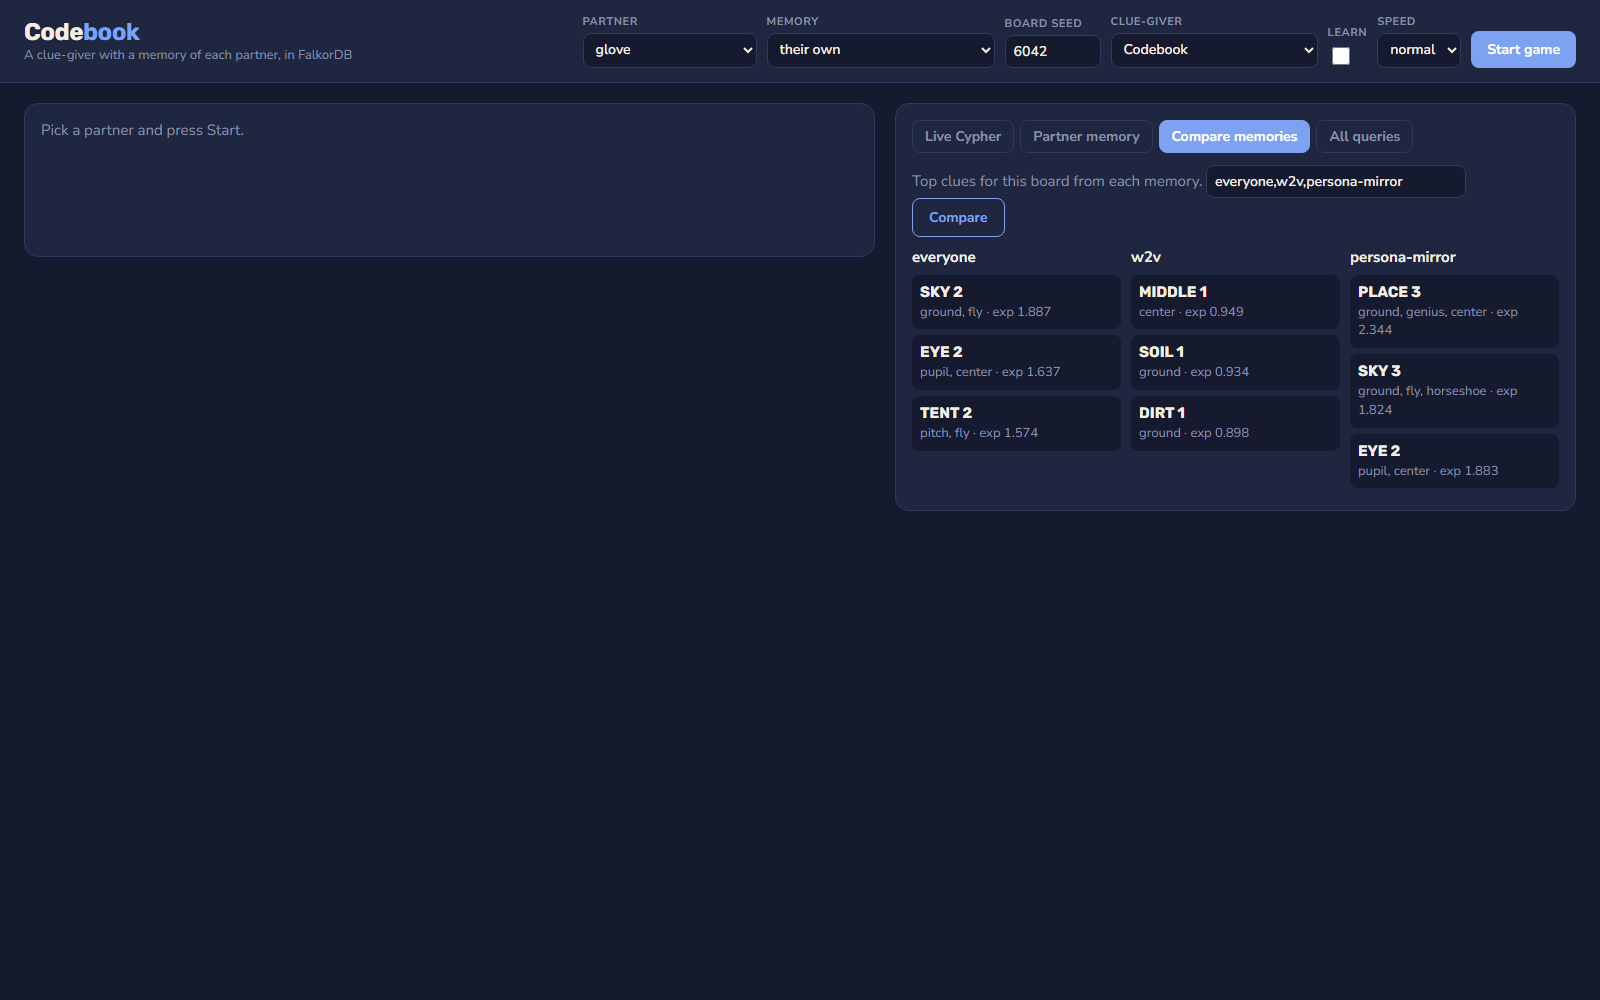
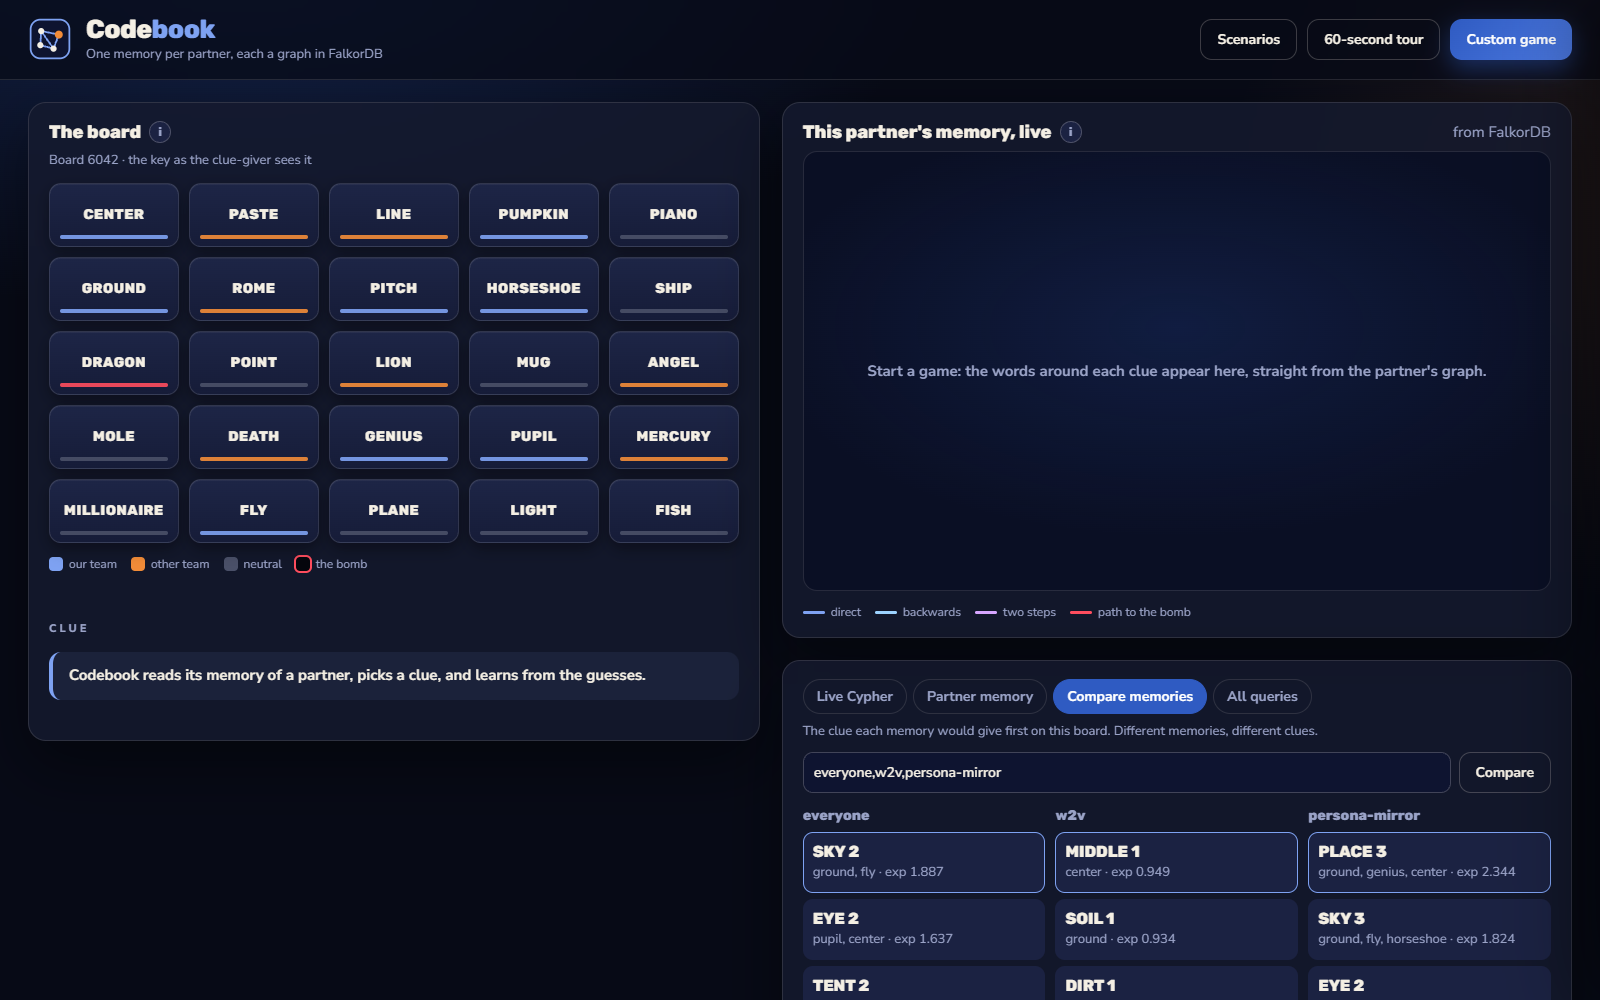
docs: README screenshots and a live view paragraph for the redesign
Claude-Session: https://claude.ai/code/session_011vmgjYtUDwDHyxp1c2as6A

diff --git a/scripts/record_demo.py b/scripts/record_demo.py
@@ -190,7 +190,7 @@ def main() -> None:
             marks[scene] = round(time.time() - t0, 1)
 
         mark("title")
-        page.goto(f"{BASE}/")
+        page.goto(f"{BASE}/?tab=queries")
         page.evaluate(CARD, ["Codebook", "An AI teammate that learns how you think, remembers it next session, "
                              "and can hand that memory to another AI. Every partner gets their own memory: "
                              "a graph in FalkorDB.", False])

diff --git a/README.md b/README.md
@@ -15,11 +15,17 @@ Graph Hacks 2026, **Track 02: Agent Memory and Coordination**.
 > GloVe gained nothing significant, and the handover to another AI pointed the right way but wasn't significant on
 > 40 boards. Details and every game: [Results](#results).
 
-![The live view: a game against the word2vec bot with its own memory, and every Cypher statement FalkorDB ran](docs/img/live-view.png)
+![Board 6030 with the word2vec bot's own memory: the board, the clue, plain-English narration and the partner's memory in 3D](docs/img/live-view.png)
 
 | What this partner's memory holds | Same board, three memories, three different clues |
 |---|---|
 | ![word2vec's memory: style weights, reweighted links, favourite words](docs/img/partner-memory.png) | ![Board 6042: everyone's memory says SKY 2, word2vec's MIDDLE 1, the backwards thinker's PLACE 3](docs/img/compare-memories.png) |
+
+**The live view explains itself.** On a first visit it offers four one-click scenarios: the same board with two
+memories, another AI taking over, playing as the guesser yourself, and exploring a memory. There's also a 60-second
+tour. While a game plays, a narration line says what just happened in plain words. The partner's memory around each
+clue turns in 3D, from three read-only Cypher queries (`graph_clue_links`, `graph_chains`, `path_to`), and those
+queries appear in the Live Cypher tab with everything else.
 
 ---
 
